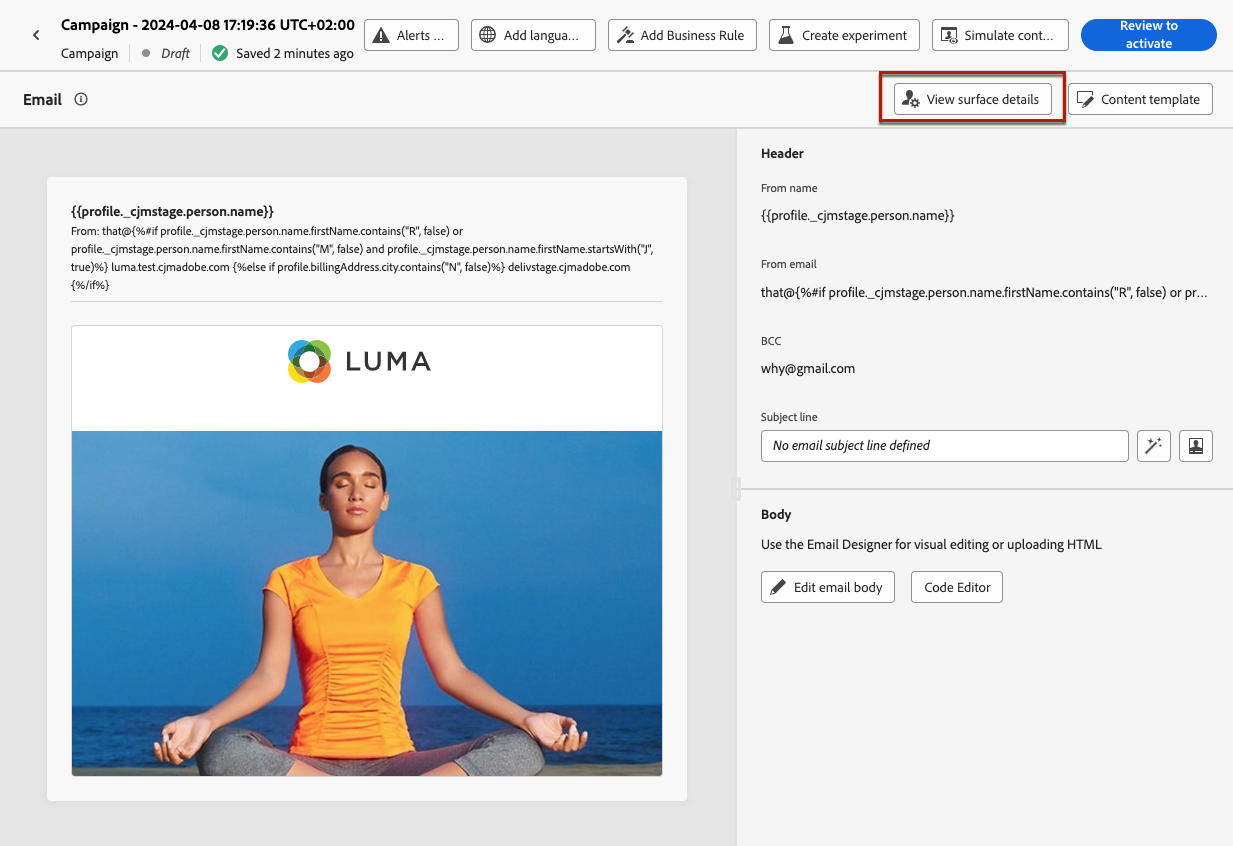
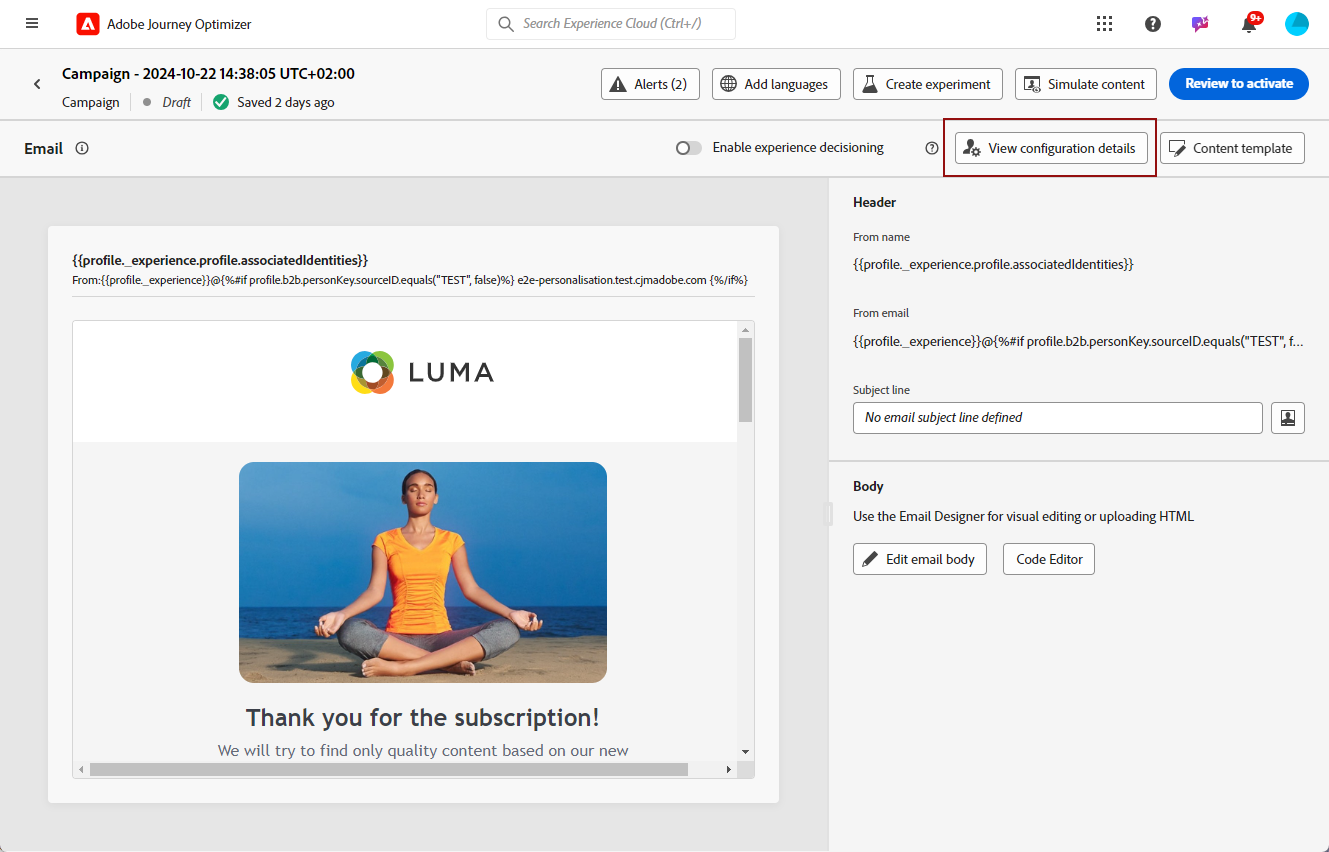
Surface personalization ga (#1757)
* Update surface-personalization.md

Draft

* surface perso updates

* surface perso updates

* Update surface-personalization.md

link fix

* Create config-personalization.gif

GIF for surface personalization

* Update surface-personalization.md

* Update surface-personalization.md

example (draft)

* Create surface-perso.gif

* Update surface-personalization.md

* Update release-notes.md

DOCAC-11138 + DOCAC-11175

* Update release-notes.md

* Update release-notes.md

* add gif

* screens

---------

diff --git a/help/using/email/surface-personalization.md b/help/using/email/surface-personalization.md
@@ -15,10 +15,6 @@ exl-id: 1e004a76-5d6d-43a1-b198-5c9b41f5332c
 
 For increased flexibility and control over your email settings, [!DNL Journey Optimizer] allows you to define personalized values for subdomains and headers<!--and URL tracking parameters--> when creating email configurations.
 
->[!AVAILABILITY]
->
->Email configuration personalization is currently only available for a set of organizations (Limited Availability). To gain access, contact your Adobe representative.
-
 ## Add dynamic subdomains {#dynamic-subdomains}
 
 >[!CONTEXTUALHELP]
@@ -104,13 +100,19 @@ To use personalized variables for your configuration header parameters, follow t
 
     ![](assets/surface-email-personalize-header.png)
 
-1. The [personalization editor](../personalization/personalization-build-expressions.md) opens. Define your condition as wanted ans save your changes.
+1. The [personalization editor](../personalization/personalization-build-expressions.md) opens. Define your condition as wanted and save your changes.
 
-    For example, set a condition such as each recipient receives an email from their own brand representative.
+    <!--For example, set a condition such as each recipient receives an email from their own brand representative.-->
 
     >[!NOTE]
     >
     >You can only select **[!UICONTROL Profile attributes]** and **[!UICONTROL Helper functions]**.
+
+    Let's say you want to handle dynamically emails sent on behalf of a sales assistant, where the sales assistant is retrieved from an event or campaign contextual parameters. For example:
+
+    * In a [journey](../building-journeys/journey-gs.md), when a purchase event is linked to the sales assistant of a specific shop, the email header (sender name, sender email, reply to address) can be personalized with the sales assistant parameters, taken from the event attributes.
+
+    * In an [API-triggered campaign](../campaigns/api-triggered-campaigns.md), initiated externally by a sales assistant, the triggered email can be sent on behalf of the sales assistant and the header personalization values taken from campaign contextual parameters.
 
 1. Repeat the steps above for each parameter you want to add personalization to.
 
@@ -132,7 +134,7 @@ Now when the email is sent out, this parameter will be automatically appended to
 
 ## View configuration details {#view-surface-details}
 
-When using a configuration with personalized settings in a campaign or a configuration, you can display the configuration details directly within the campaign or configuration. Follow the steps below.
+When using a configuration with personalized settings in a campaign or a journey, you can display the configuration details directly within the campaign or the journey. Follow the steps below.
 
 1. Create an email [campaign](../campaigns/create-campaign.md) or [journey](../building-journeys/journey-gs.md).
 
@@ -151,3 +153,33 @@ When using a configuration with personalized settings in a campaign or a configu
 1. Select **[!UICONTROL Expand]** to display the dynamic subdomains' details.
 
     ![](assets/campaign-delivery-settings-subdomain-expand.png)
+
+## Check your configuration {#check-configuration}
+
+When using a personalized configuration in a campaign or a journey, you can preview your email content to check for potential errors with the dynamic settings you defined. Follow the steps below.
+
+1. From the edit content screen of your message or in the Email Designer, click the **[!UICONTROL Simulate content]** button. [Learn more](../content-management/preview.md)
+
+1. Select a [test profile](../content-management/test-profiles.md).
+
+1. If an error is displayed, click the **[!UICONTROL View configuration details]** button.
+
+    ![](assets/campaign-simulate-config-error.png)
+
+1. Check the **[!UICONTROL Delivery settings]** screen for the errror details.
+
+    ![](assets/campaign-simulate-config-details.png)
+
+Possible errors can be as follows:
+
+* The **subdomain** did not resolve for the selected test profile. For example, your configuration uses several sending subdomains corresponding to different countries, but the selected profile has no value defined for the `Country` attribute, or the attribute is set to `France` but this value is not associated with any subdomain in that configuration.
+
+* The selected profile has no associated values for one or more **header parameters**.
+
+With any of these errors, email is not sent to the selected test profile.
+
+To avoid this type of error, make sure the header parameters you define use personalized attributes with values for most of your profiles. Missing values can impact your email deliverability.
+
+>[!NOTE]
+>
+>Learn more on deliverability in [this section](../reports/deliverability.md)

diff --git a/help/using/rn/release-notes.md b/help/using/rn/release-notes.md
@@ -49,6 +49,25 @@ This release brings the new capabilities detailed below.
 <table>
 <thead>
 <tr>
+<th><strong>Email configuration personalization (General Availability) </strong><br/></th>
+</tr>
+</thead>
+<tbody>
+<tr>
+<td>
+<p>For increased flexibility and control over your email settings, you can define dynamic subdomains and personalized header parameters when creating email channel configurations.
+</p>
+<p>Previously available for a set of organizations (LA), email configuration personalization is now available to all users (GA).</p>
+<p>For more information, refer to the <a href="../email/surface-personalization.md">detailed documentation</a>.</p>
+<img src="assets/do-not-localize/surface-perso.gif"/>
+<p>Availability date: Oct 23, 2024</p>
+</tr>
+</tbody>
+</table>
+
+<table>
+<thead>
+<tr>
 <th><strong>Approvals in journeys and campaigns (General availability)</strong><br/></th>
 </tr>
 </thead>
@@ -336,6 +355,9 @@ SMS enhancements have been introduced to improve your messaging capabilities:
 
 * The use of audiences and attributes from custom upload (CSV file) is now available for use with Healthcare Shield or Privacy and Security Shield.
 
+**Configuration** - Availability date: Oct 23, 2024
+
+* When using a personalized configuration in a campaign or a journey, you can now preview your email content to check for potential errors with the dynamic settings you defined. [Learn more](../email/surface-personalization.md#check-configuration)
 **Code-based channel**
 
 * Content templates are now available. You can speed up authoring your code-based experiences starting from a content template built by your developers. Using a content template will allow the marketer to just modify some values or fields, instead of composing the whole HTML or JSON content payload.

diff --git a/help/using/content-management/preview.md b/help/using/content-management/preview.md
@@ -10,7 +10,7 @@ exl-id: 6477270c-0309-411a-8254-c7ffc4419492
 
 <!--## Preview your content {#preview-content}-->
 
-Once [test profiles](test-profiles.md) are selected, you can preview your content. Follow the steps below:
+Once [test profiles](test-profiles.md) are defined, you can preview your content. Follow the steps below:
 
 1. From the edit content screen of your message or in the Email Designer, click the **[!UICONTROL Simulate content]** button.
 
@@ -36,5 +36,7 @@ Once [test profiles](test-profiles.md) are selected, you can preview your conten
 
 >[!NOTE]
 >
->When creating code-based experiences, you can preview your personalized content right on your browser or on your mobile devices for a real-life simulation. [Learn more](../code-based/create-code-based.md#preview-on-device)
+>If an error is found in the configuration details, click the **[!UICONTROL View configuration details]** button. [Learn more](../email/surface-personalization.md#check-configuration)
+
+When creating code-based experiences, you can preview your personalized content right on your browser or on your mobile devices for a real-life simulation. [Learn more](../code-based/create-code-based.md#preview-on-device)
 
